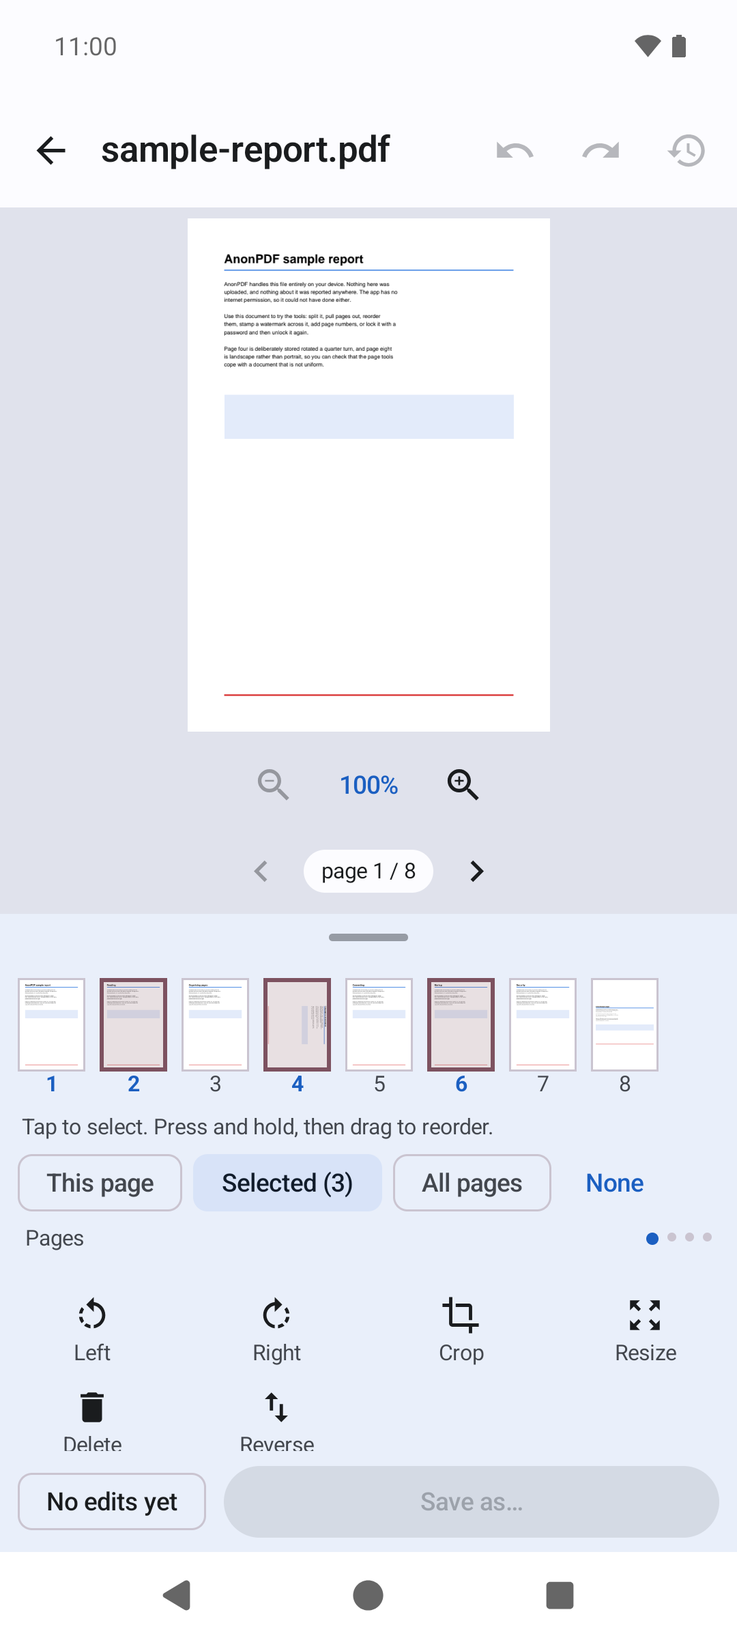
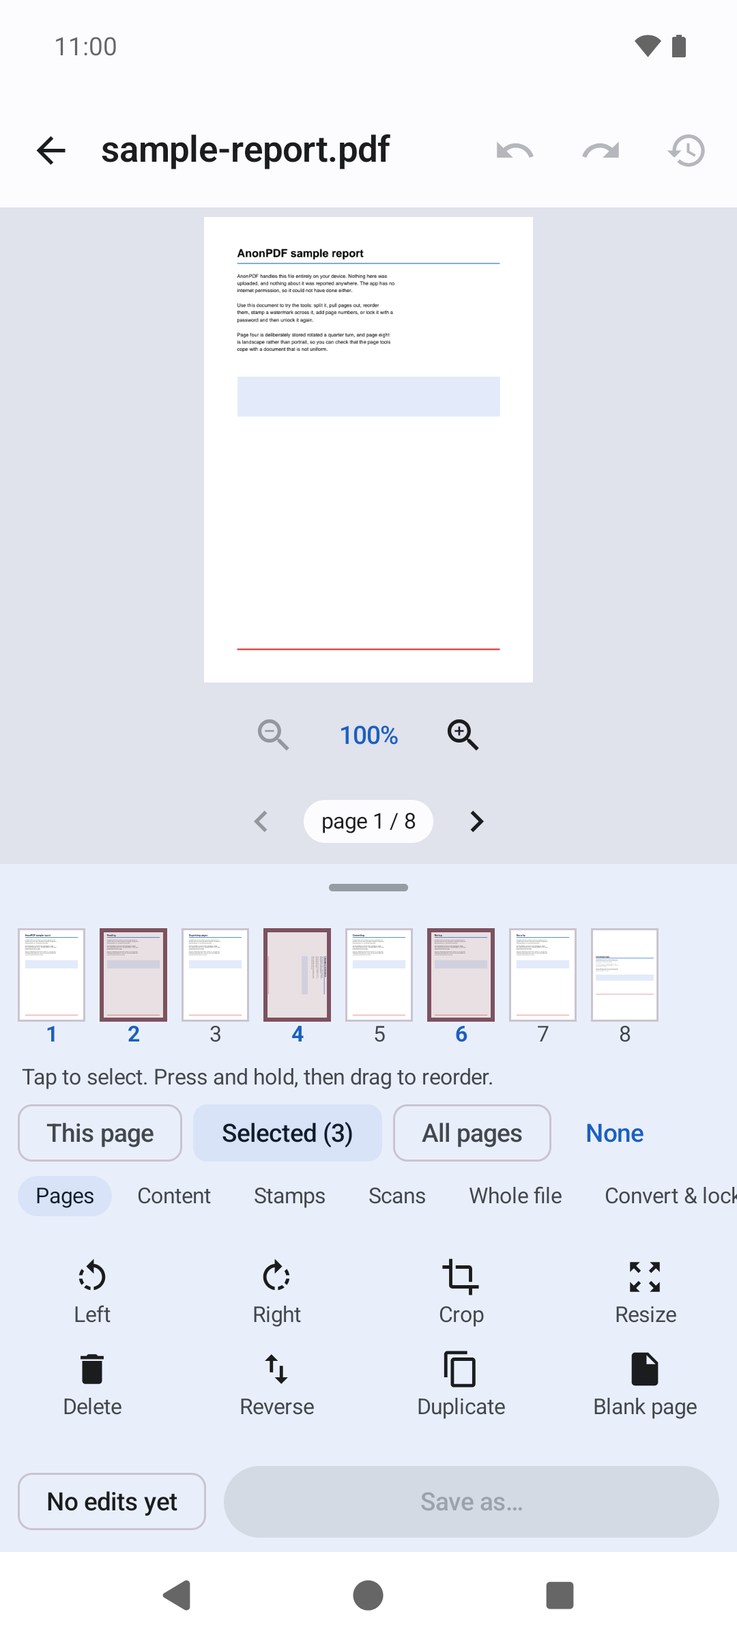
The README, store listings and screenshots describe v1.3.0 (#43)
The README and its translations, the Play listing and the snap description
list redact, bookmarks, headers and footers, clean up, scan tools and compare,
with new screenshots of the editor, redact, header and footer, compare and the
desktop app.

diff --git a/README.md b/README.md
@@ -29,6 +29,8 @@ operating system.
 The desktop app is the same engine and editor in a native window, with the
 same rule: no network access.
 
+![The desktop app: every tool beside the page](docs/screenshots/desktop-editor.png)
+
 | Library | Reading | Your files |
 |---|---|---|
 | ![Home](docs/screenshots/home.png) | ![Viewer](docs/screenshots/viewer.png) | ![Browse](docs/screenshots/browse.png) |
@@ -51,14 +53,20 @@ end. Nothing touches disk until you save, and the original is never modified.
 |---|---|---|
 | ![Crop](docs/screenshots/editor-crop.png) | ![Paper size](docs/screenshots/editor-paper.png) | ![Watermark](docs/screenshots/editor-watermark.png) |
 
-Rotate, crop, resize, delete, restore, reverse, add text, white-out, highlights,
-drawings, a watermark and page numbers — each applied to **this page**, a
-**selection**, or **all pages**. Undo and redo the whole history.
+| Find and black out | Headers, footers, Bates numbers | Compare two versions |
+|---|---|---|
+| ![Redact](docs/screenshots/editor-redact.png) | ![Header and footer](docs/screenshots/editor-header-footer.png) | ![Compare](docs/screenshots/compare.png) |
 
-- **Every tool lives here**, on four swipeable pages: *Pages*, *Content*,
-  *Whole file*, *Convert & lock*. The whole-file ones receive the document with
-  your pending edits already applied, so "delete three pages, then compress"
-  means what it looks like it means.
+Rotate, crop, resize, delete, restore, reverse, duplicate, add blank pages,
+add text, white-out, redact, highlights, drawings, a watermark, page numbers,
+headers and footers, straighten and greyscale — each applied to **this page**,
+a **selection**, or **all pages**. Undo and redo the whole history.
+
+- **Every tool lives here**, in six groups: *Pages*, *Content*, *Stamps*,
+  *Scans*, *Whole file*, *Convert & lock*. Tap a group's name to jump to it, or
+  swipe. The whole-file ones receive the document with your pending edits
+  already applied, so "delete three pages, then compress" means what it looks
+  like it means.
 - **Merge inserts, right where you say.** Pick another PDF (or several) and its
   pages drop into the document — after the current page, at the start, or at
   the end — as ordinary pages in the strip. Reorder, rotate, crop, mark or
@@ -158,12 +166,25 @@ advertising ID.
 - Fill in PDF forms: text boxes, checkboxes, radio buttons and dropdowns, previewed
   as you type, with an option to lock the answers into the page when you save
 - Add text; remove content with a white-out block (the page is flattened, so it is really gone); highlight; draw freehand
+- Find and redact: type words, or pick email addresses, phone numbers or long
+  numbers, and every match is blacked out and removed from the file, not just
+  covered. Text inside a scanned image is not found, and the panel says so.
 - Text watermark: diagonal, centred, tiled, top or bottom
 - Page numbers with a format template, position, start number, and cover-skipping
+- Headers and footers: text in any of six places, with the page number, a
+  zero-padded Bates number, the page count and the date
+- Bookmarks: see the table of contents, add one for the page you are on, rename,
+  reorder and nest them
+- Clean up: keep, burn in or remove comments and markups, and find and delete
+  blank pages
+- For scans: straighten a crooked page by hand or automatically, turn pages
+  grey, duplicate a page, add a blank one
 - Applied per page, to a selection, or to everything
 
 **Whole-file jobs**
 - Merge several PDFs into one
+- Compare two versions: a report with each page beside its counterpart, removed
+  words marked red and added words green
 - Split into multiple files by page range, or every N pages
 - Extract chosen pages into a new document
 - Compress — two modes: re-encode images only (text stays selectable), or
@@ -228,9 +249,9 @@ sdk.dir=/path/to/Android/Sdk
 ### Tests
 
 ```bash
-./gradlew testDebugUnitTest          # 55 JVM tests: page ranges, edit-plan folding, render cap, UI logic
-./gradlew connectedDebugAndroidTest  # device tests; needs a device or emulator
-./gradlew :desktop-engine:test       # the engine on desktop: 108 tests, no device needed
+./gradlew testDebugUnitTest          # 70 JVM tests: page ranges, edit-plan folding, render cap, UI logic
+./gradlew connectedDebugAndroidTest  # 141 device tests; needs a device or emulator
+./gradlew :desktop-engine:test       # the engine on desktop: 165 tests, no device needed
 ./gradlew :desktop:test              # the desktop app, driven end to end
 ./gradlew :desktop:run               # run the desktop app
 ```

diff --git a/docs/readme/README.ru.md b/docs/readme/README.ru.md
@@ -45,9 +45,19 @@ AnonPDF появился потому, что все остальные PDF-пр
 |---|---|---|
 | ![Текст](../screenshots/editor-text.png) | ![Рисунок](../screenshots/editor-draw.png) | ![Объединение](../screenshots/editor-merge.png) |
 
-- **Все инструменты в одном месте**, на четырёх страницах: *Страницы*,
-  *Содержимое*, *Весь файл* и *Преобразовать и защитить*. Инструменты для всего
-  файла получают документ уже с вашими несохранёнными изменениями.
+| Найти и закрасить | Колонтитулы, номера Бейтса | Сравнить две версии |
+|---|---|---|
+| ![Закрасить](../screenshots/editor-redact.png) | ![Колонтитулы](../screenshots/editor-header-footer.png) | ![Сравнение](../screenshots/compare.png) |
+
+- **Все инструменты в одном месте**, в шести группах: *Страницы*,
+  *Содержимое*, *Штампы*, *Сканы*, *Весь файл* и *Преобразовать и защитить*.
+  Коснитесь названия группы, чтобы сразу перейти к ней, или пролистайте.
+  Инструменты для всего файла получают документ уже с вашими несохранёнными
+  изменениями.
+- **Найти и закрасить**: введите слова или выберите адреса почты, телефоны или
+  длинные номера; каждое совпадение закрашивается чёрным и удаляется из файла, а
+  не просто прячется. Текст внутри отсканированных изображений не находится, и
+  инструмент об этом говорит.
 - **Заполнение PDF-форм**: текстовые поля, флажки, переключатели и списки, с
   предпросмотром при вводе и возможностью закрепить ответы на странице при
   сохранении.
@@ -111,9 +121,12 @@ apkanalyzer manifest permissions app-release.apk
 
 **Правка** (всё за один проход, с предпросмотром): поворот, обрезка, изменение
 размера (A3, A4, A5, Letter, Legal, Tabloid), удаление, перестановка, объединение,
-заполнение форм, текст, замазка, выделение, рисунок, водяной знак и номера страниц.
+заполнение форм, текст, замазка, закрашивание, выделение, рисунок, водяной знак,
+номера страниц, колонтитулы с номерами Бейтса, закладки, удаление или впечатывание
+комментариев, поиск пустых страниц, выравнивание сканов, оттенки серого, копии
+страниц и пустые страницы.
 
-**Файлы целиком:** объединить, разделить, извлечь страницы, сжать, PDF в JPG/PNG,
+**Файлы целиком:** объединить, сравнить две версии (удалённые слова красным, новые зелёным), разделить, извлечь страницы, сжать, PDF в JPG/PNG,
 изображения в PDF, извлечь текст, защитить AES-256 или снять пароль, подписать.
 
 **При сохранении:** по желанию удалить скрытые сведения PDF (автор, программа,

diff --git a/docs/readme/README.zh-CN.md b/docs/readme/README.zh-CN.md
@@ -35,7 +35,12 @@
 |---|---|---|
 | ![文字](../screenshots/editor-text.png) | ![手绘](../screenshots/editor-draw.png) | ![合并](../screenshots/editor-merge.png) |
 
-- **所有工具都在这里**，分为四页：*页面*、*内容*、*整个文件*、*转换与加密*。处理整个文件的工具拿到的是已应用你待保存修改的文档。
+| 查找并涂黑 | 页眉页脚与贝茨编号 | 比较两个版本 |
+|---|---|---|
+| ![涂黑](../screenshots/editor-redact.png) | ![页眉页脚](../screenshots/editor-header-footer.png) | ![比较](../screenshots/compare.png) |
+
+- **所有工具都在这里**，分为六组：*页面*、*内容*、*标记*、*扫描件*、*整个文件*、*转换与加密*。轻点组名即可直接跳转，也可以滑动切换。处理整个文件的工具拿到的是已应用你待保存修改的文档。
+- **查找并涂黑**：输入词语，或选择电子邮件地址、电话号码或长数字；每处匹配都会被涂黑并从文件中删除，而不只是遮住。扫描图片中的文字无法查找，工具会说明这一点。
 - **填写 PDF 表单**：文本框、复选框、单选按钮和下拉列表，输入时即可预览，保存时还可以把填写内容锁定到页面上。
 - **合并会插入到你指定的位置。** 另一个 PDF 的页面会作为普通页面加入，可以旋转、排序、裁剪或删除。
 - **不仅编辑页面，还能编辑内容。** 用涂白遮住内容并在上面写字、高亮一段文字，或者手绘。涂白会真正删除被遮住的内容：框下的页面会变成图片，被遮住的文字之后无法复制或搜索。
@@ -83,9 +88,9 @@ apkanalyzer manifest permissions app-release.apk
 
 **查找文件：**内置浏览功能列出设备上所有 PDF，也可以按文件夹浏览，或使用系统选择器。
 
-**编辑**（一次完成，带预览）：旋转、裁剪、调整尺寸（A3、A4、A5、Letter、Legal、Tabloid）、删除、排序、合并、填写表单、文字、涂白、高亮、手绘、水印和页码。
+**编辑**（一次完成，带预览）：旋转、裁剪、调整尺寸（A3、A4、A5、Letter、Legal、Tabloid）、删除、排序、合并、填写表单、文字、涂白、涂黑、高亮、手绘、水印、页码、带贝茨编号的页眉页脚、书签、删除或固化批注、查找空白页、拉直扫描件、灰度、复制页面和添加空白页。
 
-**整个文件：**合并、拆分、提取页面、压缩、PDF 转 JPG/PNG、图片转 PDF、提取文字、用 AES-256 加密或移除已知密码，以及签名。
+**整个文件：**合并、比较两个版本（删除的词标红，新增的标绿）、拆分、提取页面、压缩、PDF 转 JPG/PNG、图片转 PDF、提取文字、用 AES-256 加密或移除已知密码，以及签名。
 
 **保存时：**可选择移除 PDF 中的隐藏信息（作者、创建软件、日期、XMP 元数据、附件、脚本以及批注上的姓名）。
 

diff --git a/docs/readme/README.pt-BR.md b/docs/readme/README.pt-BR.md
@@ -45,9 +45,18 @@ gravado até você salvar, e o original nunca é modificado.
 |---|---|---|
 | ![Texto](../screenshots/editor-text.png) | ![Desenho](../screenshots/editor-draw.png) | ![Juntar](../screenshots/editor-merge.png) |
 
-- **Todas as ferramentas ficam aqui**, em quatro páginas: *Páginas*, *Conteúdo*,
-  *Arquivo inteiro* e *Converter e proteger*. As de arquivo inteiro recebem o
-  documento com suas alterações pendentes já aplicadas.
+| Encontrar e tarjar | Cabeçalhos, rodapés, números Bates | Comparar duas versões |
+|---|---|---|
+| ![Tarjar](../screenshots/editor-redact.png) | ![Cabeçalhos](../screenshots/editor-header-footer.png) | ![Comparar](../screenshots/compare.png) |
+
+- **Todas as ferramentas ficam aqui**, em seis grupos: *Páginas*, *Conteúdo*,
+  *Carimbos*, *Digitalizações*, *Arquivo inteiro* e *Converter e proteger*. Toque
+  no nome de um grupo para ir direto a ele, ou deslize. As de arquivo inteiro
+  recebem o documento com suas alterações pendentes já aplicadas.
+- **Encontrar e tarjar**: digite palavras ou escolha e-mails, telefones ou
+  números longos; cada ocorrência é tarjada de preto e removida do arquivo, não
+  só coberta. Texto dentro de imagens digitalizadas não é encontrado, e a
+  ferramenta avisa.
 - **Preencha formulários PDF**: caixas de texto, caixas de seleção, botões de opção
   e listas, com prévia enquanto você digita e a opção de travar as respostas na
   página ao salvar.
@@ -111,9 +120,12 @@ pastas, ou o seletor do sistema.
 
 **Edição** (tudo de uma vez, com prévia): girar, cortar, redimensionar (A3, A4, A5,
 Carta, Ofício, Tabloide), excluir, reordenar, juntar, preencher formulários, texto,
-corretivo, destaque, desenho, marca-d'água e números de página.
+corretivo, tarja, destaque, desenho, marca-d'água, números de página, cabeçalhos
+e rodapés com números Bates, marcadores, remover ou fixar comentários, achar
+páginas em branco, endireitar digitalizações, tons de cinza, duplicar páginas e
+adicionar páginas em branco.
 
-**Arquivos inteiros:** juntar, dividir, extrair páginas, comprimir, PDF em JPG/PNG,
+**Arquivos inteiros:** juntar, comparar duas versões (palavras removidas em vermelho, novas em verde), dividir, extrair páginas, comprimir, PDF em JPG/PNG,
 imagens em PDF, extrair texto, proteger com AES-256 ou remover uma senha, e assinar.
 
 **Ao salvar:** se quiser, remova as informações ocultas do PDF (autor, app que o

diff --git a/docs/readme/README.de.md b/docs/readme/README.de.md
@@ -46,9 +46,18 @@ bleibt unverändert.
 |---|---|---|
 | ![Text](../screenshots/editor-text.png) | ![Zeichnen](../screenshots/editor-draw.png) | ![Zusammenführen](../screenshots/editor-merge.png) |
 
-- **Alle Werkzeuge an einem Ort**, auf vier Seiten: *Seiten*, *Inhalt*,
-  *Ganze Datei* und *Umwandeln & sperren*. Die Werkzeuge für ganze Dateien
-  bekommen das Dokument mit deinen ausstehenden Änderungen.
+| Finden und schwärzen | Kopf- und Fußzeilen, Bates-Nummern | Zwei Fassungen vergleichen |
+|---|---|---|
+| ![Schwärzen](../screenshots/editor-redact.png) | ![Kopf- und Fußzeile](../screenshots/editor-header-footer.png) | ![Vergleichen](../screenshots/compare.png) |
+
+- **Alle Werkzeuge an einem Ort**, in sechs Gruppen: *Seiten*, *Inhalt*,
+  *Stempel*, *Scans*, *Ganze Datei* und *Umwandeln & sperren*. Tippe auf den
+  Namen einer Gruppe, um dorthin zu springen, oder wische. Die Werkzeuge für
+  ganze Dateien bekommen das Dokument mit deinen ausstehenden Änderungen.
+- **Finden und schwärzen**: Wörter eingeben oder E-Mail-Adressen,
+  Telefonnummern oder lange Nummern wählen; jeder Treffer wird geschwärzt und
+  aus der Datei entfernt, nicht nur verdeckt. Text in gescannten Bildern wird
+  nicht gefunden, und das Werkzeug sagt das.
 - **PDF-Formulare ausfüllen**: Textfelder, Kontrollkästchen, Optionsfelder und
   Auswahllisten, mit Vorschau beim Tippen und der Option, die Antworten beim
   Speichern festzuschreiben.
@@ -115,10 +124,12 @@ oder die Systemauswahl.
 
 **Bearbeiten** (alles in einem Durchgang, mit Vorschau): drehen, zuschneiden,
 Größe ändern (A3, A4, A5, Letter, Legal, Tabloid), löschen, umsortieren,
-zusammenführen, Formulare ausfüllen, Text, Abdeckung, Markierung, Zeichnung,
-Wasserzeichen und Seitenzahlen.
+zusammenführen, Formulare ausfüllen, Text, Abdeckung, Schwärzen, Markierung,
+Zeichnung, Wasserzeichen, Seitenzahlen, Kopf- und Fußzeilen mit Bates-Nummern,
+Lesezeichen, Kommentare entfernen oder einbrennen, leere Seiten finden, Scans
+begradigen, Graustufen, Seiten duplizieren und Leerseiten einfügen.
 
-**Ganze Dateien:** zusammenführen, teilen, Seiten entnehmen, verkleinern, PDF zu
+**Ganze Dateien:** zusammenführen, zwei Fassungen vergleichen (entfernte Wörter rot, neue grün), teilen, Seiten entnehmen, verkleinern, PDF zu
 JPG/PNG, Bilder zu PDF, Text entnehmen, mit AES-256 schützen oder ein Passwort
 entfernen, und signieren.
 

diff --git a/docs/readme/README.es.md b/docs/readme/README.es.md
@@ -45,9 +45,18 @@ Nada toca el disco hasta que guardas, y el original nunca se modifica.
 |---|---|---|
 | ![Texto](../screenshots/editor-text.png) | ![Dibujo](../screenshots/editor-draw.png) | ![Unir](../screenshots/editor-merge.png) |
 
-- **Todas las herramientas están aquí**, en cuatro páginas: *Páginas*,
-  *Contenido*, *Todo el archivo* y *Convertir y proteger*. Las de archivo
-  completo reciben el documento con tus cambios pendientes ya aplicados.
+| Buscar y tachar | Encabezados, pies y números Bates | Comparar dos versiones |
+|---|---|---|
+| ![Tachar](../screenshots/editor-redact.png) | ![Encabezados](../screenshots/editor-header-footer.png) | ![Comparar](../screenshots/compare.png) |
+
+- **Todas las herramientas están aquí**, en seis grupos: *Páginas*,
+  *Contenido*, *Sellos*, *Escaneos*, *Todo el archivo* y *Convertir y proteger*.
+  Toca el nombre de un grupo para ir a él, o desliza. Las de archivo completo
+  reciben el documento con tus cambios pendientes ya aplicados.
+- **Buscar y tachar**: escribe palabras o elige direcciones de correo, teléfonos
+  o números largos; cada coincidencia se tacha en negro y se elimina del
+  archivo, no solo se tapa. El texto dentro de imágenes escaneadas no se
+  encuentra, y la herramienta lo dice.
 - **Rellena formularios PDF**: cuadros de texto, casillas, botones de opción y
   listas, con vista previa mientras escribes y la opción de bloquear las
   respuestas en la página al guardar.
@@ -113,10 +122,12 @@ por carpetas, o el selector del sistema.
 
 **Editar** (todo en una pasada, con vista previa): girar, recortar, cambiar de
 tamaño (A3, A4, A5, Carta, Oficio, Tabloide), eliminar, reordenar, unir, rellenar
-formularios, texto, corrector, resaltado, dibujo, marca de agua y números de
-página.
+formularios, texto, corrector, tachado, resaltado, dibujo, marca de agua,
+números de página, encabezados y pies con números Bates, marcadores, quitar o
+fijar comentarios, buscar páginas en blanco, enderezar escaneos, escala de
+grises, duplicar páginas y añadir páginas en blanco.
 
-**Archivos completos:** unir, dividir, extraer páginas, comprimir, PDF a JPG/PNG,
+**Archivos completos:** unir, comparar dos versiones (palabras quitadas en rojo, nuevas en verde), dividir, extraer páginas, comprimir, PDF a JPG/PNG,
 imágenes a PDF, extraer texto, proteger con AES-256 o quitar una contraseña, y
 firmar.
 

diff --git a/docs/readme/README.fr.md b/docs/readme/README.fr.md
@@ -46,9 +46,18 @@ n'est jamais modifié.
 |---|---|---|
 | ![Texte](../screenshots/editor-text.png) | ![Dessin](../screenshots/editor-draw.png) | ![Fusion](../screenshots/editor-merge.png) |
 
-- **Tous les outils sont ici**, sur quatre pages : *Pages*, *Contenu*,
-  *Fichier entier* et *Convertir et protéger*. Les outils de fichier entier
+| Trouver et caviarder | En-têtes, pieds de page, numéros Bates | Comparer deux versions |
+|---|---|---|
+| ![Caviarder](../screenshots/editor-redact.png) | ![En-tête et pied](../screenshots/editor-header-footer.png) | ![Comparer](../screenshots/compare.png) |
+
+- **Tous les outils sont ici**, en six groupes : *Pages*, *Contenu*,
+  *Tampons*, *Scans*, *Fichier entier* et *Convertir et protéger*. Touchez le
+  nom d'un groupe pour y aller, ou balayez. Les outils de fichier entier
   reçoivent le document avec vos modifications en attente déjà appliquées.
+- **Trouver et caviarder** : saisissez des mots ou choisissez adresses e-mail,
+  numéros de téléphone ou longs numéros ; chaque résultat est noirci et retiré
+  du fichier, pas seulement masqué. Le texte dans une image scannée n'est pas
+  trouvé, et l'outil le dit.
 - **Remplissez les formulaires PDF** : champs de texte, cases à cocher, boutons
   radio et listes, avec aperçu pendant la saisie et l'option de verrouiller les
   réponses dans la page à l'enregistrement.
@@ -115,10 +124,13 @@ dossiers, ou le sélecteur du système.
 
 **Modifier** (tout en une passe, avec aperçu) : pivoter, recadrer, redimensionner
 (A3, A4, A5, Lettre US, Légal US, Tabloïd), supprimer, réordonner, fusionner,
-remplir des formulaires, texte, correcteur, surlignage, dessin, filigrane et
-numéros de page.
+remplir des formulaires, texte, correcteur, caviardage, surlignage, dessin,
+filigrane, numéros de page, en-têtes et pieds de page avec numéros Bates,
+signets, retirer ou incruster les commentaires, trouver les pages blanches,
+redresser des scans, niveaux de gris, dupliquer des pages et ajouter des pages
+vierges.
 
-**Fichiers entiers :** fusionner, diviser, extraire des pages, compresser, PDF en
+**Fichiers entiers :** fusionner, comparer deux versions (mots retirés en rouge, ajoutés en vert), diviser, extraire des pages, compresser, PDF en
 JPG/PNG, images en PDF, extraire le texte, protéger en AES-256 ou retirer un mot de
 passe, et signer.
 

diff --git a/docs/play/store-listing.md b/docs/play/store-listing.md
@@ -23,11 +23,16 @@ the feature graphic, made by `generate_store_graphics.py`.
     • Resize: scale by percentage, or refit onto A4, Letter, A3, A5, Legal or Tabloid
     • Add pages from other PDFs, then edit them like any other page
     • Add text, highlight, draw, or white out content (the page is flattened, so it is really gone)
-    • Text watermarks and page numbers
+    • Find and black out words, email addresses, phone numbers and long numbers, removed from the file and not just covered
+    • Watermarks, page numbers, and headers and footers with Bates numbers and the date
+    • Bookmarks: add, rename, reorder and nest the table of contents
+    • Clean up: remove or burn in comments, and find and delete blank pages
+    • Scans: straighten crooked pages, turn them grey, duplicate a page, add a blank one
     • Every change can be undone until you save, and your original file is never modified
 
     WHOLE-FILE TOOLS
     • Merge, split, and extract pages
+    • Compare two versions: removed words in red, added words in green, side by side
     • Compress: re-encode images only, or flatten pages for the smallest file
     • PDF to JPG or PNG, and pictures to PDF
     • Extract text to a .txt file

diff --git a/PLAYSTORE.md b/PLAYSTORE.md
@@ -204,6 +204,9 @@ The repo screenshots you can upload as-is:
 - `docs/screenshots/editor.png` — the editor with its page strip and tools
 - `docs/screenshots/editor-merge.png` — merging another PDF in at a chosen position
 - `docs/screenshots/editor-text.png` — covering existing text and retyping it
+- `docs/screenshots/editor-redact.png` — finding words and numbers and blacking them out
+- `docs/screenshots/editor-header-footer.png` — a footer with a Bates number on every page
+- `docs/screenshots/compare.png` — two versions side by side, changes marked
 - `docs/screenshots/editor-draw.png` — a highlight and freehand ink on a page
 - `docs/screenshots/editor-crop.png` — dragging the crop frame
 - `docs/screenshots/editor-paper.png` — refitting a page onto a standard sheet
